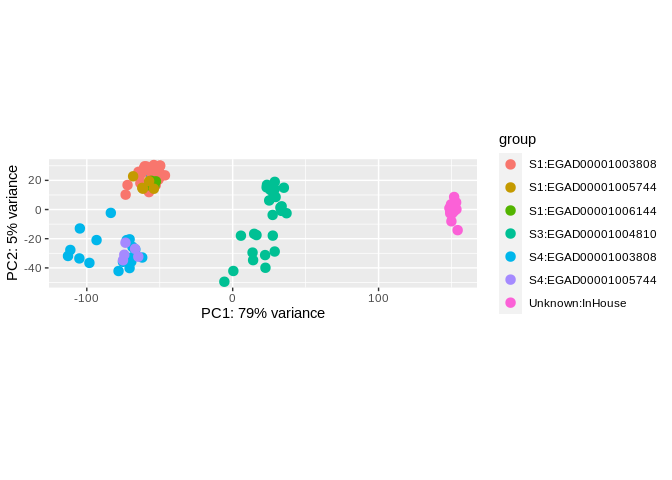
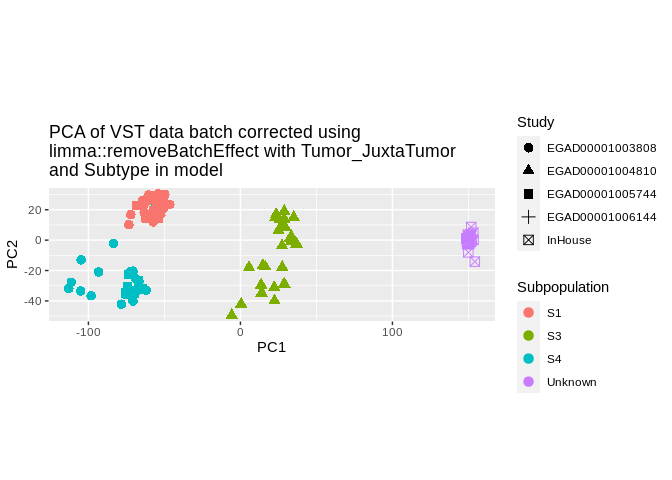
commit work from 11/07/2022 - looking at batch correction, improving PCA and heatmaps

diff --git a/caf_rnaseq_combined_analysis.md b/caf_rnaseq_combined_analysis.md
@@ -1,7 +1,7 @@
 CAF subtype analysis
 ================
 Kevin Ryan
-2022-07-08 20:23:40
+2022-07-11 19:18:25
 
 -   <a href="#introduction" id="toc-introduction">Introduction</a>
     -   <a href="#preparation" id="toc-preparation">Preparation</a>
@@ -12,6 +12,8 @@ Kevin Ryan
             with tximeta and create DESeq object</a>
         -   <a href="#data-transformation" id="toc-data-transformation">Data
             transformation</a>
+        -   <a href="#batch-correction" id="toc-batch-correction">Batch
+            correction</a>
     -   <a
         href="#assigning-in-house-samples-to-a-caf-subtype-using-k-nearest-neighbours"
         id="toc-assigning-in-house-samples-to-a-caf-subtype-using-k-nearest-neighbours">Assigning
@@ -314,17 +316,14 @@ dds <- DESeq(dds)
     ## fitting model and testing
 
 ``` r
-select <- order(rowMeans(counts(dds,normalized=TRUE)),
-                decreasing=TRUE)[1:20]
-df <- as.data.frame(colData(dds)[,c("Study","Subtype", "Tumor_JuxtaTumor")])
-pheatmap(assay(ntd)[select,], cluster_rows=FALSE, show_rownames=FALSE,
-         cluster_cols=FALSE, annotation_col=df, show_colnames = F)
+ann_colors = list(Study=c(EGAD00001004810 = "forestgreen",  EGAD00001003808 = "gold", EGAD00001006144 = "blue", EGAD00001005744 = "magenta3", InHouse = "black"),
+                  Subtype = c(S1 = "dodgerblue4", S3 = "chartreuse1", S4 = "grey67", Unknown = "palevioletred"),
+                  Tumor_JuxtaTumor = c(tumor = "royalblue", juxtatumor = "red")
+                  )
 ```
 
-![](caf_rnaseq_combined_analysis_files/figure-gfm/Create%20heatmap%20of%2020%20genes%20with%20highest%20normalised%20mean%20expression-1.png)<!-- -->
-
-From the heatmap, we can see that there are profound batch effects
-present which must be dealt with.
+From the heatmap, we can see that there are batch effects present which
+must be dealt with.
 
 ### Data transformation
 
@@ -342,6 +341,8 @@ be used in downstream processes which require homoskedastic data
 such as ours as it is much faster than *rlog*
 
 ``` r
+# here, blind is FALSE as we don't want it to be blind to experimental design 
+# recommended when transforming data for downstream analysis which will use the design information
 vsd <- vst(dds, blind = FALSE)
 ```
 
@@ -374,28 +375,15 @@ ggplot(df, aes(x = x, y = y)) + geom_hex(bins = 80) +
   coord_fixed() + facet_grid( . ~ transformation)  
 ```
 
-![](caf_rnaseq_combined_analysis_files/figure-gfm/unnamed-chunk-4-1.png)<!-- -->
+![](caf_rnaseq_combined_analysis_files/figure-gfm/unnamed-chunk-5-1.png)<!-- -->
 
 There doesn’t seem to much of a difference between the two methods of
 normalisation, only that the lowly expressed genes have been brought up
 to a minimum of \~4.
 
-``` r
-# find euclidean distance between samples for heatmap generation (normalised data)
-sampleDists <- dist(t(assay(vsd)))
-# don't want files column to be on heatmap
-subset_coldata <- subset(coldata, select = -c(files))
-sampleDistMatrix <- as.matrix( sampleDists )
-rownames(subset_coldata) <- subset_coldata$names
-subset_coldata$names <- NULL
-#rownames(sampleDistMatrix) <- vsd$Study
-#colnames(sampleDistMatrix) <- NULL
-#colors <- colorRampPalette( rev(brewer.pal(9, "Blues")) )(255)
-#pheatmap(sampleDistMatrix,
- #        clustering_distance_rows = sampleDists,
-  #       clustering_distance_cols = sampleDists,
-   #      col = colors)
-```
+### Batch correction
+
+The following graphs demonstrate the batch effects
 
 ``` r
 ann_colors = list(Study=c(EGAD00001004810 = "forestgreen",  EGAD00001003808 = "gold", EGAD00001006144 = "blue", EGAD00001005744 = "magenta3", InHouse = "black"),
@@ -405,6 +393,14 @@ ann_colors = list(Study=c(EGAD00001004810 = "forestgreen",  EGAD00001003808 = "g
 ```
 
 ``` r
+# find euclidean distance between samples for heatmap generation (normalised data)
+sampleDists <- dist(t(assay(vsd)))
+# don't want files column to be on heatmap
+subset_coldata <- subset(coldata, select = -c(files))
+sampleDistMatrix <- as.matrix( sampleDists )
+rownames(subset_coldata) <- subset_coldata$names
+subset_coldata$names <- NULL
+
 pheatmap(mat=sampleDistMatrix,
          show_rownames = FALSE,
          cluster_cols = TRUE,
@@ -417,7 +413,7 @@ pheatmap(mat=sampleDistMatrix,
          col=colorRampPalette( rev(brewer.pal(9, "Blues")) )(255))
 ```
 
-![](caf_rnaseq_combined_analysis_files/figure-gfm/unnamed-chunk-6-1.png)<!-- -->
+![](caf_rnaseq_combined_analysis_files/figure-gfm/Generate%20distance%20matrix%20+%20generate%20heatmap-1.png)<!-- -->
 
 ``` r
 plotPCA(vsd, intgroup = c("Study", "Subtype"))
@@ -441,14 +437,9 @@ ggplot(pcaData, aes(x = PC1, y = PC2, color = Study, shape = Subtype)) +
 
 ![](caf_rnaseq_combined_analysis_files/figure-gfm/unnamed-chunk-9-1.png)<!-- -->
 
-``` r
-gpca <- glmpca(counts(dds), L=2)
-gpca.dat <- gpca$factors
-gpca.dat$Study <- dds$Study
-gpca.dat$Subtype <- dds$Subtype
-```
-
 Next step is to look at batch correction.
+
+#### Method 1: Limma’s remove batch effect function
 
 ``` r
 library(limma)
@@ -466,9 +457,57 @@ library(limma)
     ##     plotMA
 
 ``` r
-mat <- assay(vsd)
-mm <- model.matrix(~Tumor_JuxtaTumor+Subtype, colData(vsd))
-mat <- limma::removeBatchEffect(mat, batch = vsd$Study, design = mm)
+vsd_remove_batch_intercept <- vsd
+vsd_remove_batch_tumor_juxta_subtype <- vsd
+vsd_remove_batch_tumor_juxta_only <- vsd
+```
+
+``` r
+mat <- assay(vsd_remove_batch_intercept)
+mm <- model.matrix(~1, colData(vsd_remove_batch_intercept))
+mat <- limma::removeBatchEffect(mat, batch = vsd_remove_batch_intercept$Study, design = mm)
+assay(vsd_remove_batch_intercept) <- mat
+pca_batch_correct_intercept <- plotPCA(vsd, intgroup = c("Subtype","Study")) + 
+  aes(x = PC1, y = PC2, color = colData(vsd_remove_batch_intercept)$Subtype, shape =colData(vsd_remove_batch_intercept)$Study ) +
+  labs(color='Subpopulation', shape = "Study") +
+  ggtitle("PCA of VST data batch corrected using \nlimma::removeBatchEffect with intercept term only")
+pca_batch_correct_intercept
+```
+
+![](caf_rnaseq_combined_analysis_files/figure-gfm/removeBatchEffect%20model%20matrix%20with%20only%20an%20intercept%20term-1.png)<!-- -->
+
+``` r
+# find euclidean distance between samples for heatmap generation (normalised data)
+# same template as previous heatmap
+sampleDists <- dist(t(assay(vsd_remove_batch_intercept)))
+sampleDistMatrix <- as.matrix( sampleDists )
+
+pheatmap(mat=sampleDistMatrix,
+         show_rownames = FALSE,
+         cluster_cols = TRUE,
+         cluster_rows = TRUE,
+         show_colnames = FALSE,
+         annotation_col = subset_coldata,
+         annotation_colors = ann_colors,
+         clustering_distance_rows=sampleDists,
+         clustering_distance_cols=sampleDists,
+         col=colorRampPalette( rev(brewer.pal(9, "Blues")) )(255))
+```
+
+![](caf_rnaseq_combined_analysis_files/figure-gfm/removeBatchEffect%20model%20matrix%20with%20only%20an%20intercept%20term,%20heatmap-1.png)<!-- -->
+
+Limma’s removeBatchEffect function requires a design matrix as input,
+this is the “treatment conditions” we wish to preserve. It is usually
+the design matrix with all experimental factors other than batch
+effects. I do not know whether to include Subtype in this matrix, as
+this treats `Unknown` as its own subtype, and so will preserve
+differences between the InHouse samples and the other samples, as seen
+in the below PCA plot.
+
+``` r
+mat <- assay(vsd_remove_batch_tumor_juxta_subtype)
+mm <- model.matrix(~Tumor_JuxtaTumor+Subtype, colData(vsd_remove_batch_tumor_juxta_subtype))
+mat <- limma::removeBatchEffect(mat, batch = vsd_remove_batch_tumor_juxta_subtype$Study, design = mm)
 ```
 
     ## Coefficients not estimable: batch2 batch4
@@ -476,36 +515,60 @@ mat <- limma::removeBatchEffect(mat, batch = vsd$Study, design = mm)
     ## Warning: Partial NA coefficients for 22678 probe(s)
 
 ``` r
-assay(vsd) <- mat
-plotPCA(vsd, intgroup = c("Subtype", "Study"))
+assay(vsd_remove_batch_tumor_juxta_subtype) <- mat
+
+pca_batch_correct_tumor_juxta_subtype <- plotPCA(vsd_remove_batch_tumor_juxta_subtype, intgroup = c("Subtype","Study")) + 
+  aes(x = PC1, y = PC2, color = colData(vsd_remove_batch_tumor_juxta_subtype)$Subtype, shape =colData(vsd_remove_batch_tumor_juxta_subtype)$Study ) +
+  labs(color='Subpopulation', shape = "Study") +
+  ggtitle("PCA of VST data batch corrected using \nlimma::removeBatchEffect with Tumor_JuxtaTumor\nand Subtype in model")
+pca_batch_correct_tumor_juxta_subtype
 ```
 
 ![](caf_rnaseq_combined_analysis_files/figure-gfm/removeBatchEffect%20tumor%20juxta%20+%20subtype%20model%20matrix-1.png)<!-- -->
-Limma’s removeBatchEffect function requires a design matrix as input,
-this is the “treatment conditions” we wish to preserve. It is usually
-the design matrix with all experimental factors other than batch
-effects. I do not know whether to include Subtype in this matrix, as
-this treats `Unknown` as its own subtype, and so will preserve
-differences between the InHouse samples and the other samples, as seen
-in the above PCA plot.
+
+``` r
+# find euclidean distance between samples for heatmap generation (normalised data)
+# same template as previous heatmap
+
+sampleDists <- dist(t(assay(vsd_remove_batch_tumor_juxta_subtype)))
+sampleDistMatrix <- as.matrix( sampleDists )
+
+pheatmap(mat=sampleDistMatrix,
+         show_rownames = FALSE,
+         cluster_cols = TRUE,
+         cluster_rows = TRUE,
+         show_colnames = FALSE,
+         annotation_col = subset_coldata,
+         annotation_colors = ann_colors,
+         clustering_distance_rows=sampleDists,
+         clustering_distance_cols=sampleDists,
+         col=colorRampPalette( rev(brewer.pal(9, "Blues")) )(255))
+```
+
+![](caf_rnaseq_combined_analysis_files/figure-gfm/removeBatchEffect%20model%20matrix%20with%20Study+Subpopulation,%20heatmap-1.png)<!-- -->
+
+We can see from the PCA and heatmap above that including condition
+(tumour-juxtatumour) and subtype in our model matrix leads to good
+separation of the subtypes, and a lack of clustering by batch. The
+problem with this approach is that it treats our `Unknown` subtype as
+its own subtype, which means it will cluster on its own no matter what
+we do. Is there a way around this? Frozen surrogate variable analysis
+could be an option, but this is usually used on microarray data, I don’t
+know if it can be used on RNA-sequencing data.
 
 ``` r
 mat <- assay(vsd)
 mm <- model.matrix(~Tumor_JuxtaTumor, colData(vsd))
-mat <- limma::removeBatchEffect(mat, batch = vsd$Study, design = mm)
-assay(vsd) <- mat
-plotPCA(vsd, intgroup = c("Subtype", "Study"))
+mat_batch_removed_limma <- limma::removeBatchEffect(mat, batch = vsd$Study, design = mm)
 ```
-
-![](caf_rnaseq_combined_analysis_files/figure-gfm/removeBatchEffect%20tumor%20juxta%20only%20matrix-1.png)<!-- -->
 
 In the PCA plot above, we have not told the `removeBatchEffect` function
 about our known subtypes, only whether the samples were taken from Tumor
 or Juxta-Tumor. It does not know to preserve differences between
-subpopulations when removing batch effects. We have much less variance
-being explained by PC1 than in the first scenario (39% vs 68%). In the
-first PCA plot, our in-house samples of unknown subtype cluster together
-on their own.
+subpopulations when removing batch effects. Less variance being
+explained by PC1 than in the first scenario (39% vs 68%). In the first
+PCA plot, our in-house samples of unknown subtype cluster together on
+their own.
 
 ``` r
 #mat <- assay(vsd)
@@ -514,6 +577,31 @@ on their own.
       #  report_file = "batchqc_caf_data_not_corrected.html",
        # report_dir = ".", view_report = FALSE, interactive = FALSE
       #  )
+```
+
+``` r
+coldata_pca <- coldata
+rownames(coldata_pca) <- coldata_pca$names
+coldata_pca$names <- NULL
+coldata_pca$files <- NULL
+p <- pca(mat, metadata = coldata_pca)
+```
+
+``` r
+ggplot(p$rotated, aes(x = PC1, y = PC2, color = p$metadata$Study, shape = p$metadata$Subtype)) +
+  geom_point(size =3) +
+  xlab(paste0("PC1: ", percentVar[1], "% variance")) +
+  ylab(paste0("PC2: ", percentVar[2], "% variance")) +
+  coord_fixed() +
+  labs(color='Study', shape = "Subpopulation") +
+  ggtitle("PCA with transormed data after batch correction")
+```
+
+![](caf_rnaseq_combined_analysis_files/figure-gfm/unnamed-chunk-12-1.png)<!-- -->
+
+``` r
+batch <- coldata$Study
+mm <- model.matrix(~Tumor_JuxtaTumor, colData(vsd))
 ```
 
 ## Assigning in-house samples to a CAF subtype using K-nearest neighbours
@@ -561,9 +649,9 @@ tab
 
     ##     caf_test_category
     ## pr   S1 S3 S4
-    ##   S1  3  4  2
+    ##   S1  2  3  3
     ##   S3  0  0  0
-    ##   S4  0  0  0
+    ##   S4  0  0  1
 
 ``` r
 accuracy <- function(x){sum(diag(x)/(sum(rowSums(x)))) * 100}
@@ -587,7 +675,7 @@ for (i in 1:50){
 plot(outputs)
 ```
 
-![](caf_rnaseq_combined_analysis_files/figure-gfm/unnamed-chunk-18-1.png)<!-- -->
+![](caf_rnaseq_combined_analysis_files/figure-gfm/unnamed-chunk-19-1.png)<!-- -->
 
 ``` r
   prediction <- knn(mat_train,mat_unknown,cl=caf_target_category,k=13)
